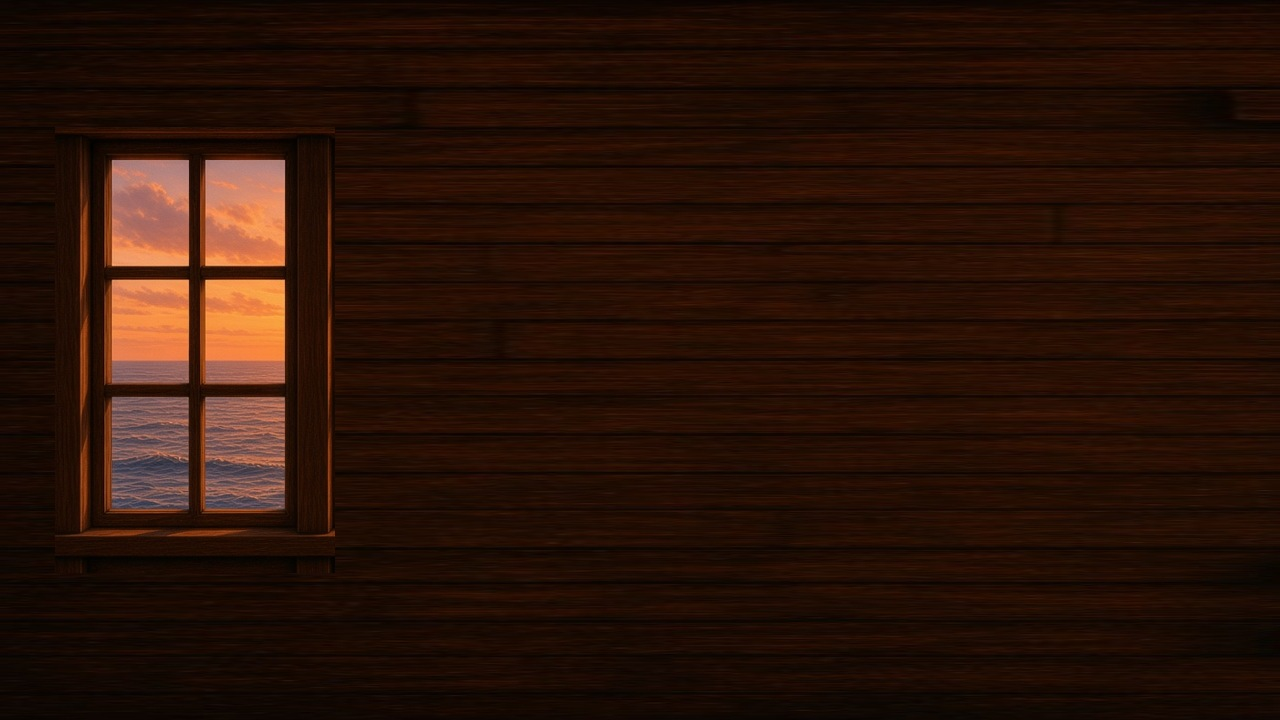
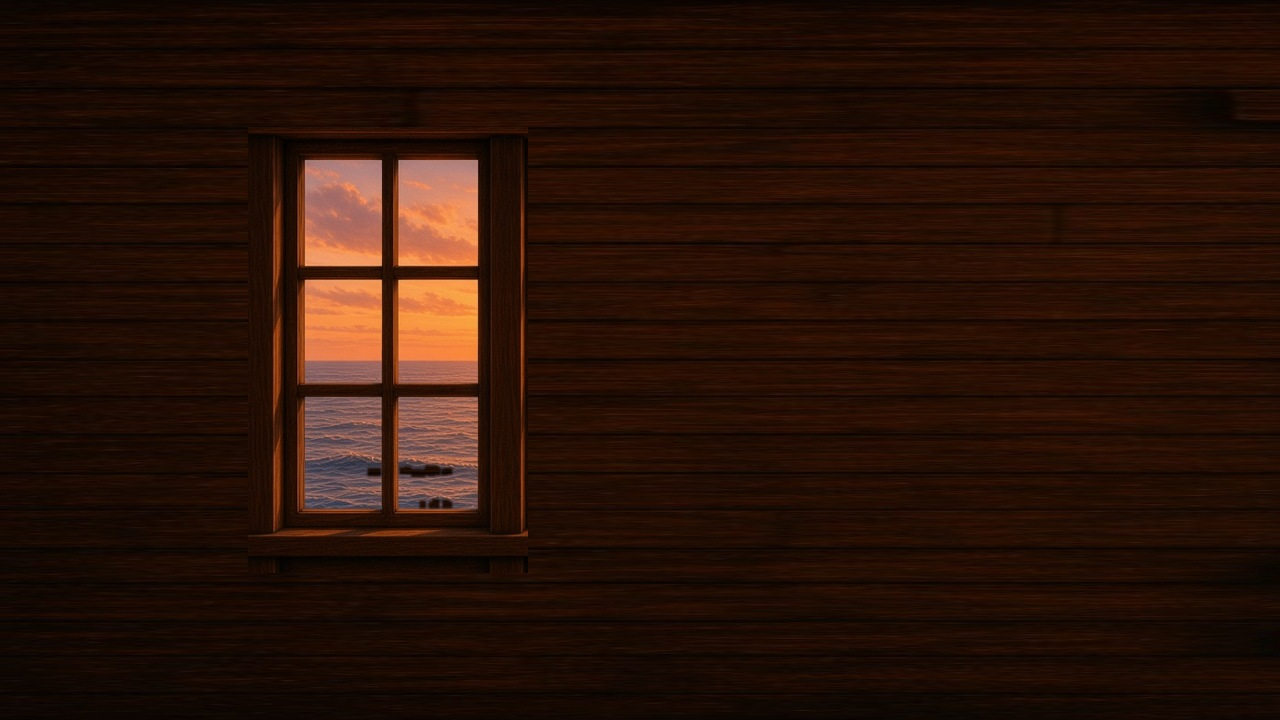
Inset port-wall window to match stern edge margin
Move the left stern window farther from the left edge so its
margin matches the stern wall windows.

diff --git a/pirates-cabin.html b/pirates-cabin.html
@@ -48,7 +48,7 @@
           </div>
           <div class="cabin-face cabin-face-port">
             <img
-              src="images/cabin-port-wall-v13.jpg?v=1"
+              src="images/cabin-port-wall-v13.jpg?v=2"
               alt="Port wall with the left stern window and frame on the left"
               draggable="false"
             />
